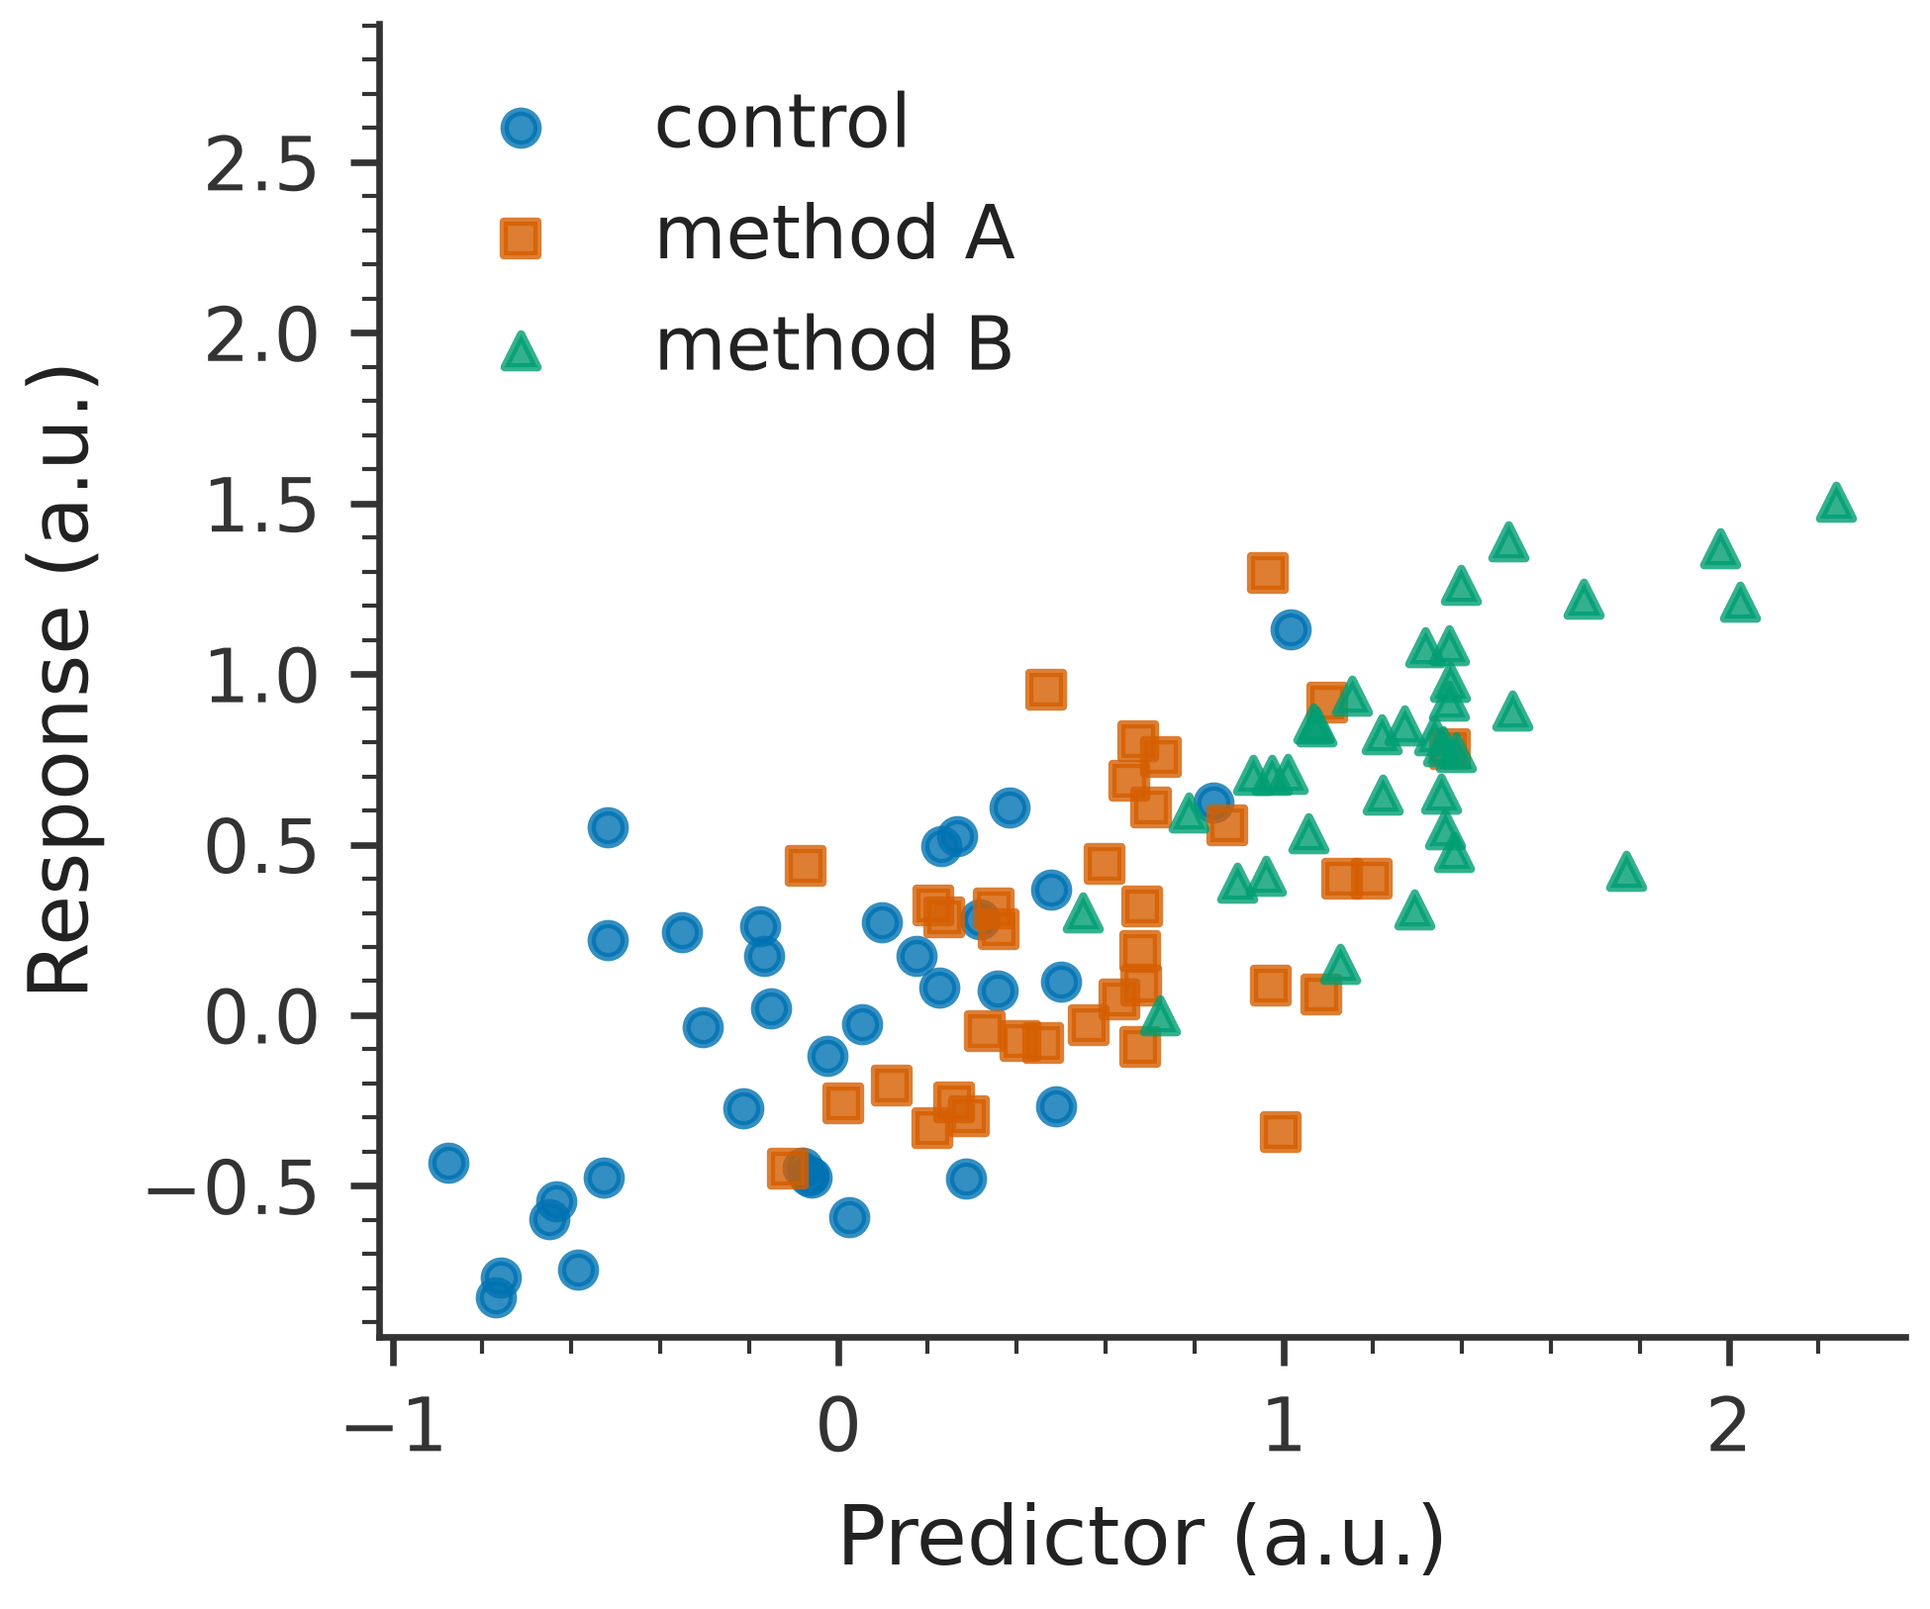
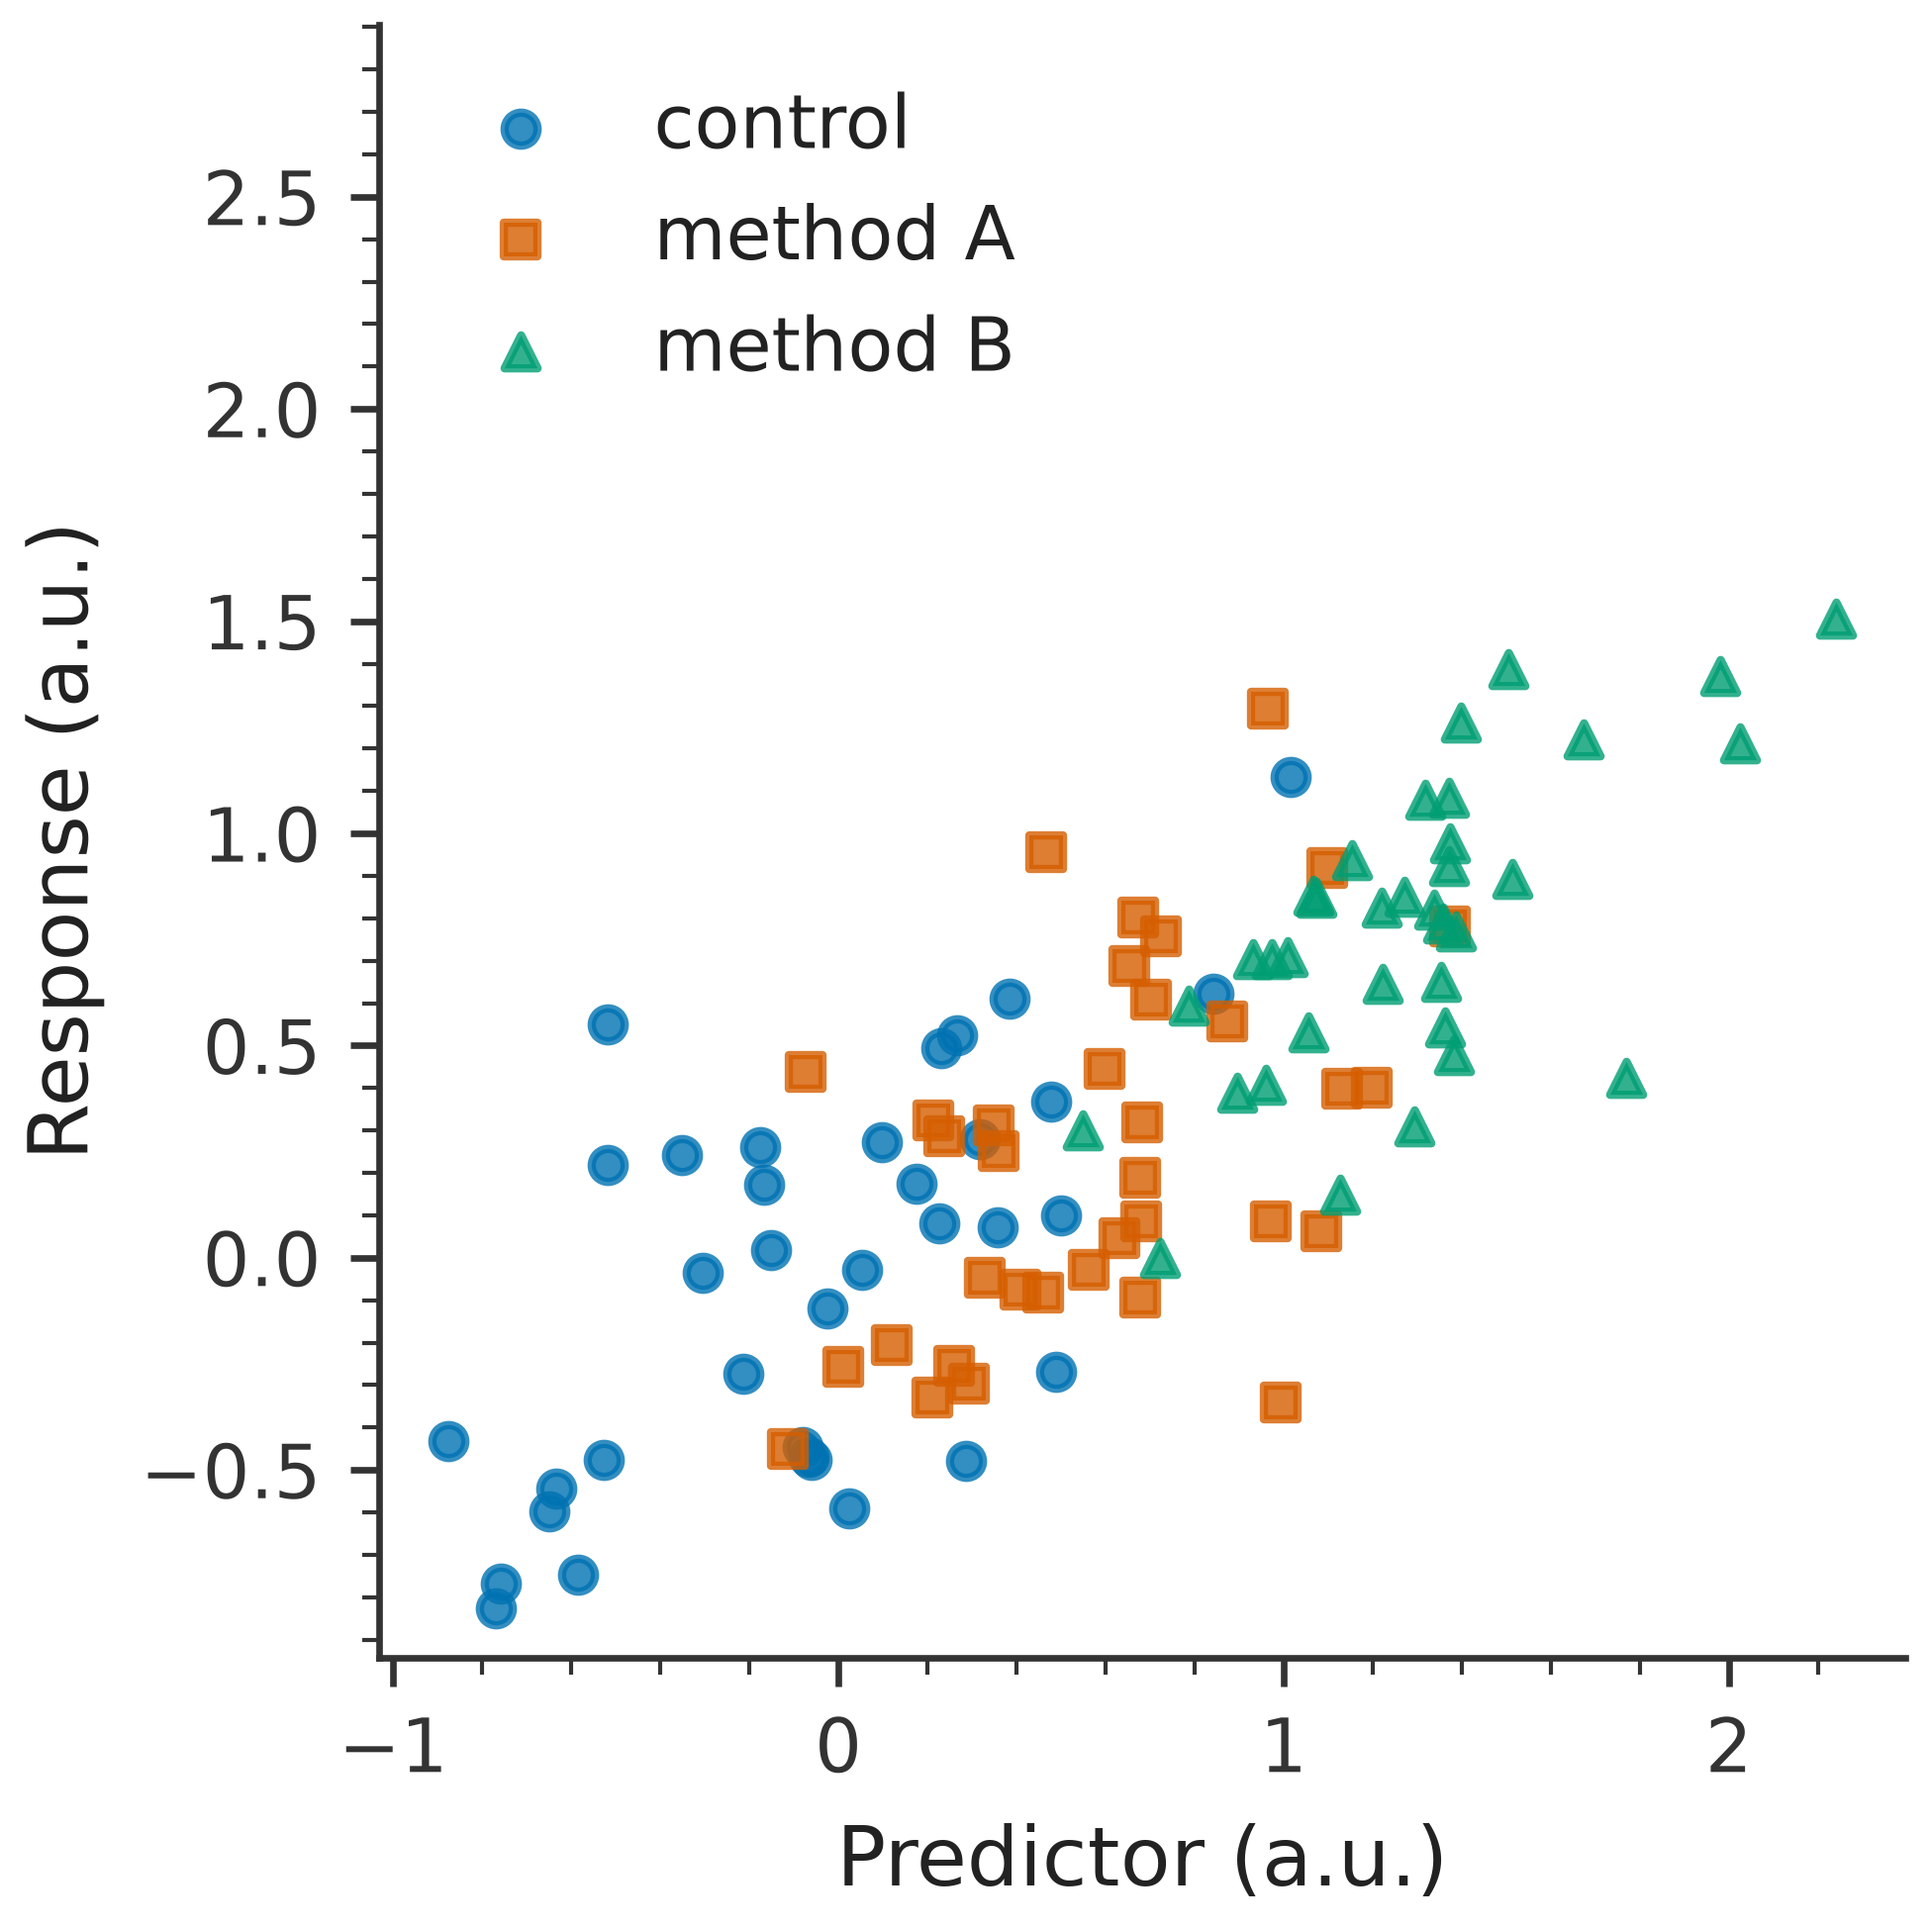
Use square formatting for scatter examples

diff --git a/examples/build_readme_figures.py b/examples/build_readme_figures.py
@@ -37,24 +37,24 @@ def build(name: str) -> None:
         figure.savefig(OUTPUT / f"{name}.png")
         plt.close(figure)
 
-        # Scatter plot with redundant color and shape encodings.
-        figure, axes = plt.subplots()
-        for offset, label, marker in zip(
-            (0.0, 0.7, 1.4),
-            ("control", "method A", "method B"),
-            ("o", "s", "^"),
-            strict=True,
-        ):
-            values = rng.normal(offset, 0.45, 35)
-            response = 0.65 * values + rng.normal(0, 0.35, values.size)
-            axes.scatter(values, response, label=label, marker=marker, alpha=0.8)
-        axes.set(xlabel="Predictor (a.u.)", ylabel="Response (a.u.)")
-        figure.set_figheight(figure.get_figheight() * 1.35)
-        lower, upper = axes.get_ylim()
-        axes.set_ylim(lower, upper + 0.5 * (upper - lower))
-        axes.legend(loc="upper left")
-        figure.savefig(OUTPUT / f"{name}_scatter.png")
-        plt.close(figure)
+        # Square scatter plot with redundant color and shape encodings.
+        with rosen_style.context(name, square=True):
+            figure, axes = plt.subplots()
+            for offset, label, marker in zip(
+                (0.0, 0.7, 1.4),
+                ("control", "method A", "method B"),
+                ("o", "s", "^"),
+                strict=True,
+            ):
+                values = rng.normal(offset, 0.45, 35)
+                response = 0.65 * values + rng.normal(0, 0.35, values.size)
+                axes.scatter(values, response, label=label, marker=marker, alpha=0.8)
+            axes.set(xlabel="Predictor (a.u.)", ylabel="Response (a.u.)")
+            lower, upper = axes.get_ylim()
+            axes.set_ylim(lower, upper + 0.5 * (upper - lower))
+            axes.legend(loc="upper left")
+            figure.savefig(OUTPUT / f"{name}_scatter.png")
+            plt.close(figure)
 
         # Vertical bars with a zero baseline and readable category labels.
         figure, axes = plt.subplots()
